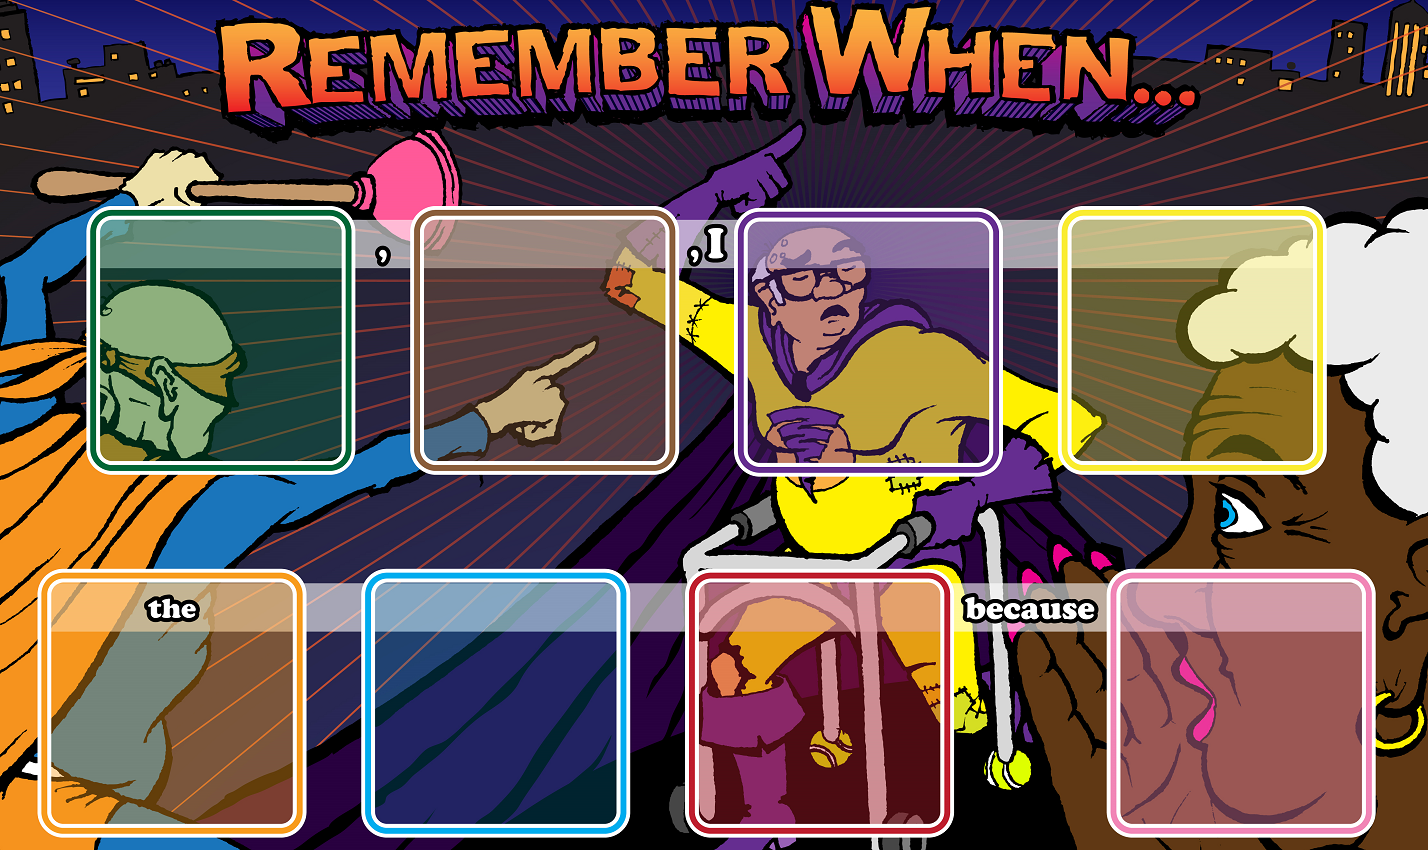
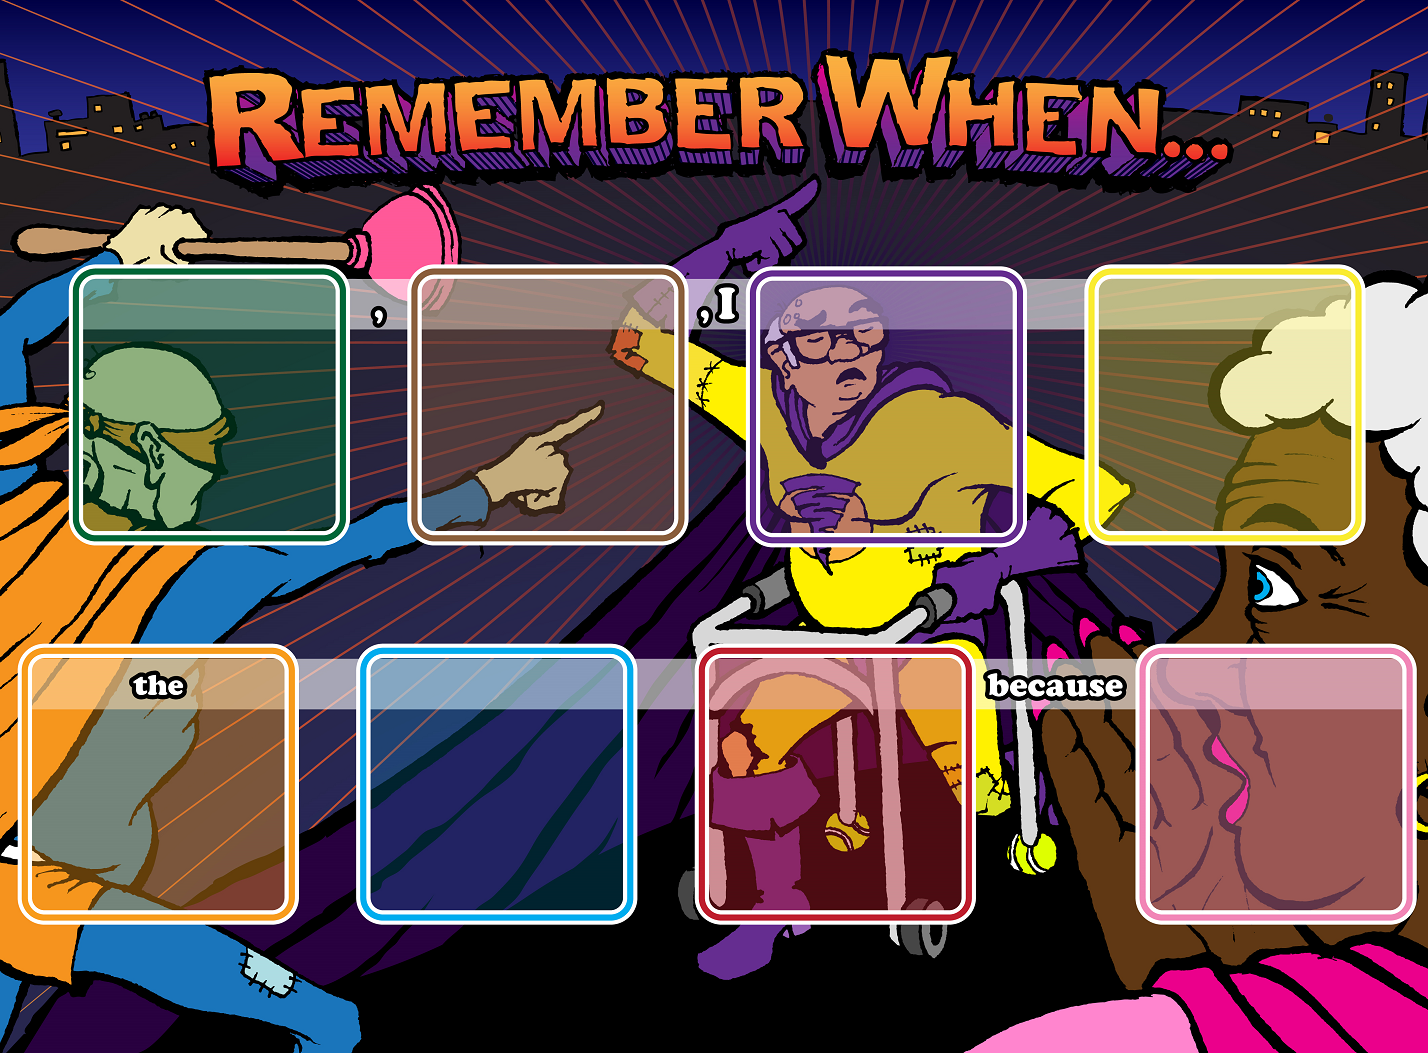
Adjust cards to fit new sentence board #94

diff --git a/rememberwhen.css b/rememberwhen.css
@@ -56,7 +56,6 @@
 
 .floatC {
 	
-	height: 475px;
 	align-content: center;
 	justify-content: center;
 	text-align: center;
@@ -110,11 +109,11 @@ ul.tab li a:focus, .active {background-color: #ebd5bd;
 	align-content: center;
 	position: relative;
     width: 750px;
-    height: 388px; 
+    height: 553px; 
 	margin: 10px;
    
     /**height: 762px; **/
-	background-size: 750px 400px;
+	background-size: 750px 553px;
  background-image: url('img/sentence.png');
  background-position: center; 
  background-repeat: no-repeat;
@@ -124,81 +123,80 @@ ul.tab li a:focus, .active {background-color: #ebd5bd;
 	clear: both;
 }
 #spot_1 {
-	top: 61px;
-	left: 59px;
+	top: 143px;
+	left: 46px;
 }
 #spot_2 {
-	top: 61px;
-	left: 221px;
+	top: 143px;
+	left: 224px;
 }
 #spot_3 {
-	top: 61px;
-	left: 396px;
+	top: 143px;
+	left: 403px;
 }
 #spot_4 {
-	top: 61px;
-	left: 558px;
+	top: 143px;
+	left: 580px;
 }
 #spot_5 {
-	top: 223px;
+	top: 343px;
 	left: 34px;
 }
 
 #spot_6 {
-	top: 223px;
-	left: 200px;
+	top: 343px;
+	left: 198px;
 }
 
 #spot_7 {
-	top: 223px;
-	left: 367px;
+	top: 343px;
+	left: 374px;
 }
 
 #spot_8 {
-	top: 223px;
-	left: 586px;
+	top: 343px;
+	left: 606px;
 }
 .spot_1 {
-	top: 61px;
-	left: 59px;
+	top: 143px;
+	left: 46px;
 }
 .spot_2 {
-	top: 61px;
-	left: 221px;
+	top: 143px;
+	left: 224px;
 }
 .spot_3 {
-	top: 61px;
-	left: 396px;
+	top: 143px;
+	left: 403px;
 }
 .spot_4 {
-	top: 61px;
-	left: 558px;
+	top: 143px;
+	left: 580px;
 }
 .spot_5 {
-	top: 223px;
+	top: 343px;
 	left: 34px;
 }
 
 .spot_6 {
-	top: 223px;
-	left: 200px;
+	top: 343px;
+	left: 198px;
 }
 
 .spot_7 {
-	top: 223px;
-	left: 367px;
+	top: 343px;
+	left: 374px;
 }
 
 .spot_8 {
-	top: 223px;
-	left: 586px;
+	top: 343px;
+	left: 606px;
 }
-
 .spot  {
     position: absolute;
 	/*border: 1px solid red;*/
-	width: 150px;
-    height: 150px;
+	width: 100px;
+    height: 100px;
 	/**color: blue; **/
 }
 
